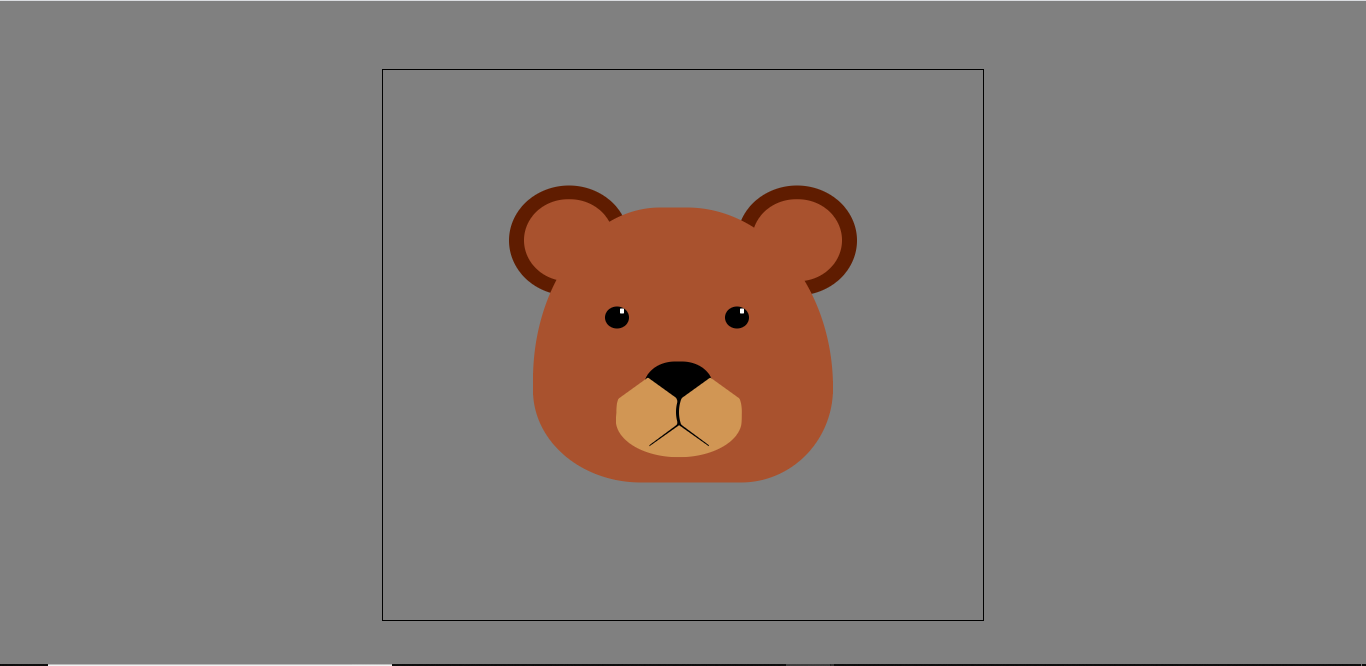
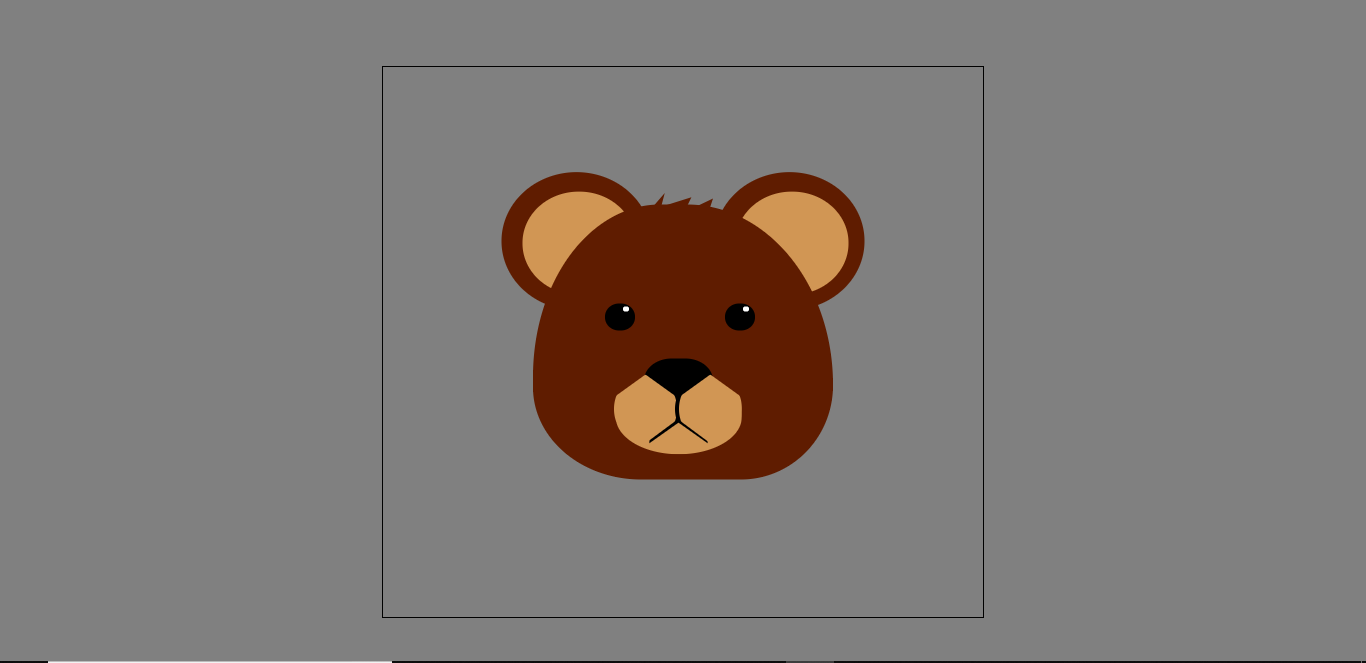
Bear Cub using pure CSS
Image of Bear Cub face only using pure css DAY 3

Changed region(s): [[0.369, 0.2413, 0.6457, 0.724], [0.2767, 0.0905, 0.7072, 0.1207]]

diff --git a/Bear Cub/bear.css b/Bear Cub/bear.css
@@ -15,29 +15,29 @@ body{
 	width: 50%;
 	height:50%;
 	border-radius: 48% 55% 35% 41% / 71% 74% 39% 38%;
-	background-color: rgba(169,82,46,1);
+	background-color: rgba(95,28,0,1);
 	top:50%;
 	left:50%;
 	transform: translateX(-50%)translateY(-50%);
 }
 .ear_left{
 	position:absolute;
-	width:20%;
-	height:20%;
+	width:25%;
+	height:25%;
 	border-radius:50%;
 	background-color: rgba(95,28,0,1);
-	top:30%;
-	left:30%;
+	top:30.5%;
+	left:31%;
 	transform: translateX(-45%)translateY(-45%);
 }
 .ear_right{
 	position:absolute;
-	width:20%;
-	height:20%;
+	width:25%;
+	height:25%;
 	border-radius:50%;
 	background-color: rgba(95,28,0,1);
-	top:30%;
-	right:30%;
+	top:30.5%;
+	right:31%;
 	transform: translateX(45%)translateY(-45%);
 }
 .inner{
@@ -46,15 +46,15 @@ body{
 	height:75%;
 	top:50%;
 	left:50%;
-	transform:translateX(-50%)translateY(-50%);
+	transform:translateX(-48%)translateY(-48%);
 	border-radius: 50%;
-	background-color: rgba(169,82,46,1);
+	background-color: rgb(209,150,84);
 }
 .eye_left{
 	position: absolute;
 	background-color: black;
-	width:8%;
-	height:8%;
+	width:10%;
+	height:10%;
 	border-radius: 50%;
 	top:36%;
 	left:24%;
@@ -62,11 +62,11 @@ body{
 .eye_right{
 	position: absolute;
 	background-color: black;
-	width:8%;
-	height:8%;
+	width:10%;
+	height:10%;
 	border-radius: 50%;
 	top:36%;
-	right:28%;
+	right:26%;
 }
 .eye_inner{
 	position: absolute;
@@ -86,7 +86,7 @@ body{
 	clip-path: polygon(0% 33% , 50% 0% , 100% 33% , 100% 66% , 50% 100% , 0% 66%);
 	border-radius: 50%;
 	top:62%;
-	left:27.8%;
+	left:27%;
 }
 .mouth_border{
 	z-index:1;
@@ -119,7 +119,7 @@ body{
 	border-radius: 50%;
 	clip-path: polygon(0% 33% , 50% 0% , 50% 100% , 0% 66%);
 	top:62%;
-	right:30.4%;
+	right:30.8%;
 }
 .mouth3{
 	z-index:-1;
@@ -137,7 +137,16 @@ body{
 	width:23%;
 	height:20%;
 	background-color: black;
-	border-radius: 45%;
+	border-radius: 40%;
 	top:56%;
 	left:37%;
+}
+.hair{
+	position: absolute;
+	background-color: rgba(95,28,0,1);
+	width:12%;
+	height:5%;
+	clip-path: polygon(0% 100% , 33% 0% , 28% 50% , 70% 15% , 60% 70% , 100% 20% , 90% 100%);
+	top:23%;
+	left:43%;
 }

diff --git a/Bear Cub/index.html b/Bear Cub/index.html
@@ -1,7 +1,7 @@
 <!DOCTYPE html>
 <html>
 <head>
-	<title>BEAVER</title>
+	<title>Bear Cub</title>
 	<link rel="stylesheet" type="text/css" href="bear.css">
 </head>
 <body>
@@ -27,6 +27,8 @@
 			</div>
 			<div class="nose">
 			</div>
+		</div>
+		<div class="hair">
 		</div>
 		<div class="ear_left">
 			<div class="inner">
